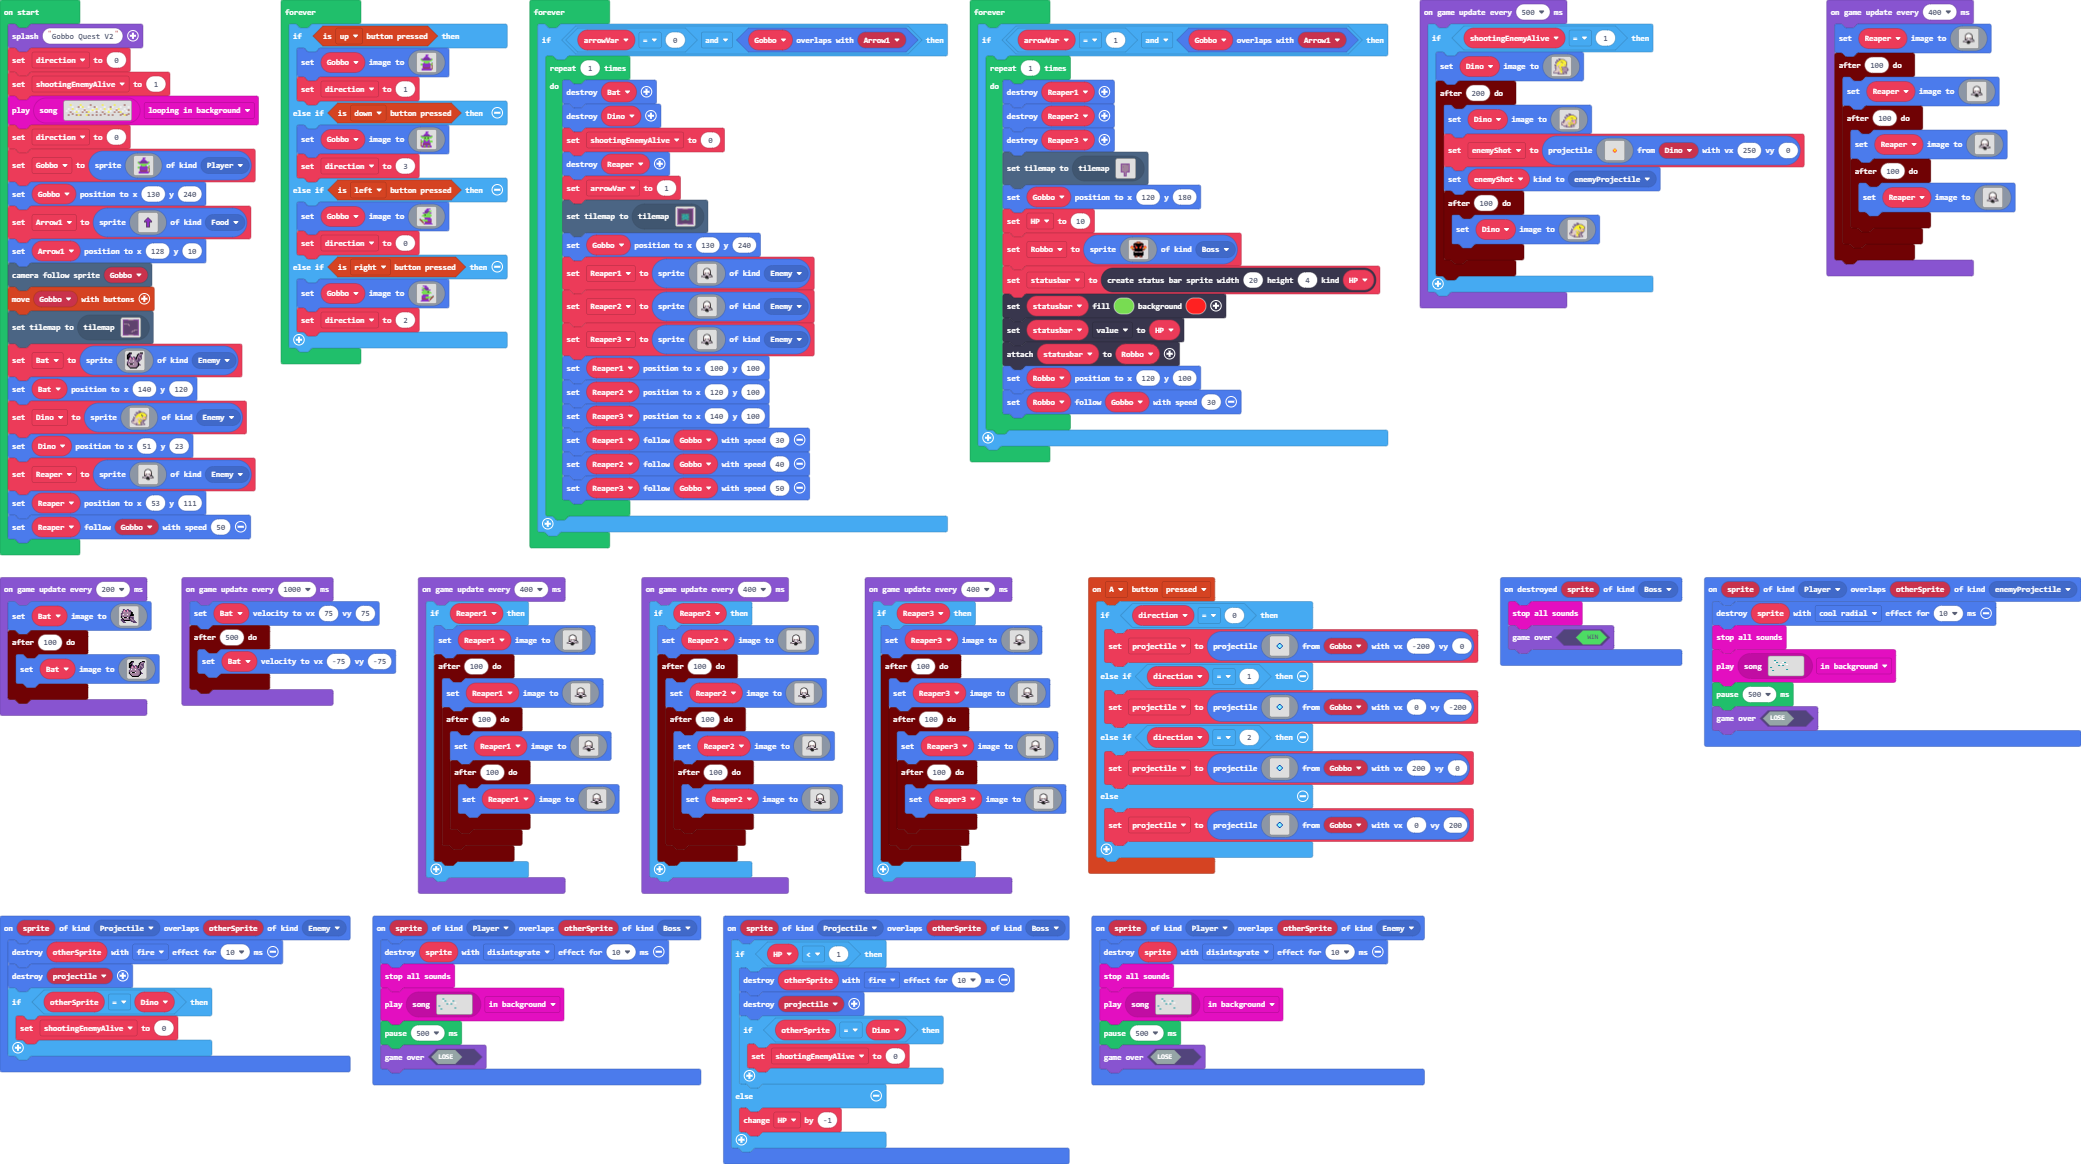
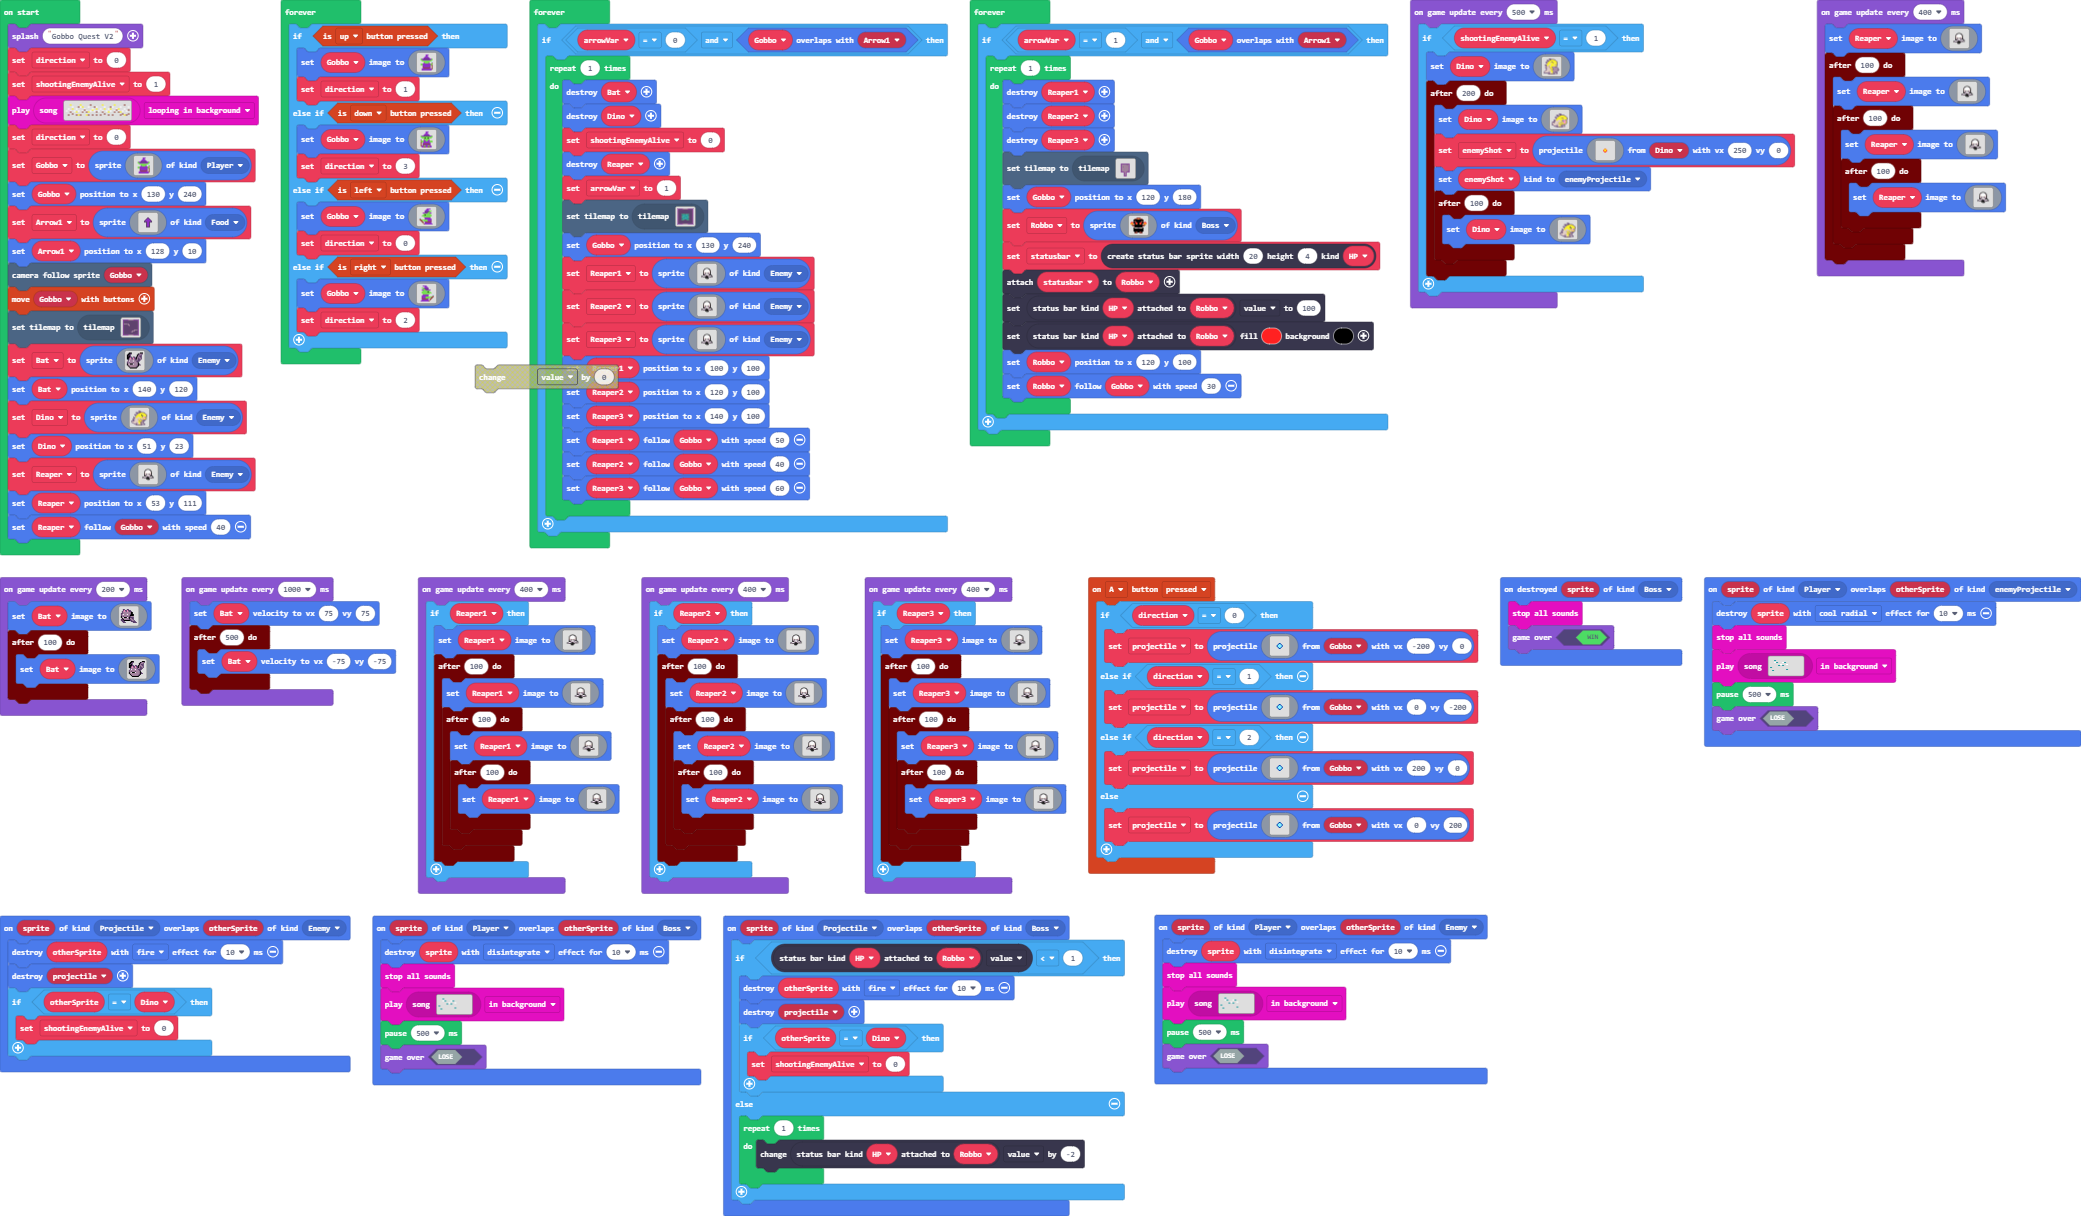
Project Updated

diff --git a/main.ts b/main.ts
@@ -21,14 +21,16 @@ controller.A.onEvent(ControllerButtonEvent.Pressed, function () {
     }
 })
 sprites.onOverlap(SpriteKind.Projectile, SpriteKind.Boss, function (sprite, otherSprite) {
-    if (HP < 1) {
+    if (statusbars.getStatusBarAttachedTo(HP, Robbo).value < 1) {
         sprites.destroy(otherSprite, effects.fire, 10)
         sprites.destroy(projectile)
         if (otherSprite == Dino) {
             shootingEnemyAlive = 0
         }
     } else {
-        HP += -1
+        for (let index = 0; index < 1; index++) {
+            statusbars.getStatusBarAttachedTo(HP, Robbo).value += -2
+        }
     }
 })
 sprites.onDestroyed(SpriteKind.Boss, function (sprite) {
@@ -58,11 +60,11 @@ sprites.onOverlap(SpriteKind.Player, SpriteKind.Boss, function (sprite, otherSpr
 })
 let enemyShot: Sprite = null
 let statusbar: StatusBarSprite = null
-let Robbo: Sprite = null
 let arrowVar = 0
 let Reaper3: Sprite = null
 let Reaper2: Sprite = null
 let Reaper1: Sprite = null
+let Robbo: Sprite = null
 let HP = 0
 let projectile: Sprite = null
 let Dino: Sprite = null
@@ -171,7 +173,7 @@ let Reaper = sprites.create(img`
     ........................
     `, SpriteKind.Enemy)
 Reaper.setPosition(53, 111)
-Reaper.follow(Gobbo, 50)
+Reaper.follow(Gobbo, 40)
 game.onUpdateInterval(1000, function () {
     Bat.setVelocity(75, 75)
     timer.after(500, function () {
@@ -738,9 +740,9 @@ forever(function () {
             Reaper1.setPosition(100, 100)
             Reaper2.setPosition(120, 100)
             Reaper3.setPosition(140, 100)
-            Reaper1.follow(Gobbo, 30)
+            Reaper1.follow(Gobbo, 50)
             Reaper2.follow(Gobbo, 40)
-            Reaper3.follow(Gobbo, 50)
+            Reaper3.follow(Gobbo, 60)
         }
     }
 })
@@ -752,12 +754,11 @@ forever(function () {
             sprites.destroy(Reaper3)
             tiles.setCurrentTilemap(tilemap`level11`)
             Gobbo.setPosition(120, 180)
-            HP = 10
             Robbo = sprites.create(assets.image`Robbo-Front`, SpriteKind.Boss)
             statusbar = statusbars.create(20, 4, HP)
-            statusbar.setColor(7, 2)
-            statusbar.value = HP
             statusbar.attachToSprite(Robbo)
+            statusbars.getStatusBarAttachedTo(HP, Robbo).value = 100
+            statusbars.getStatusBarAttachedTo(HP, Robbo).setColor(2, 15)
             Robbo.setPosition(120, 100)
             Robbo.follow(Gobbo, 30)
         }
